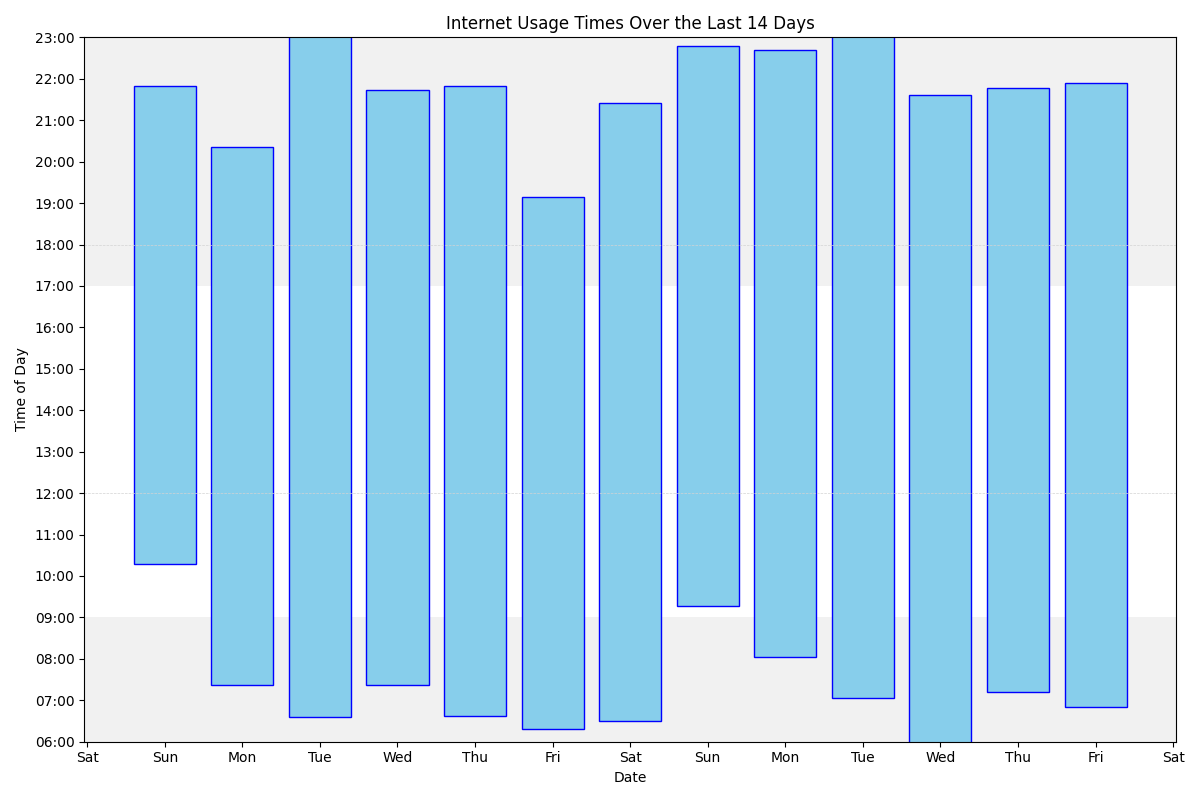
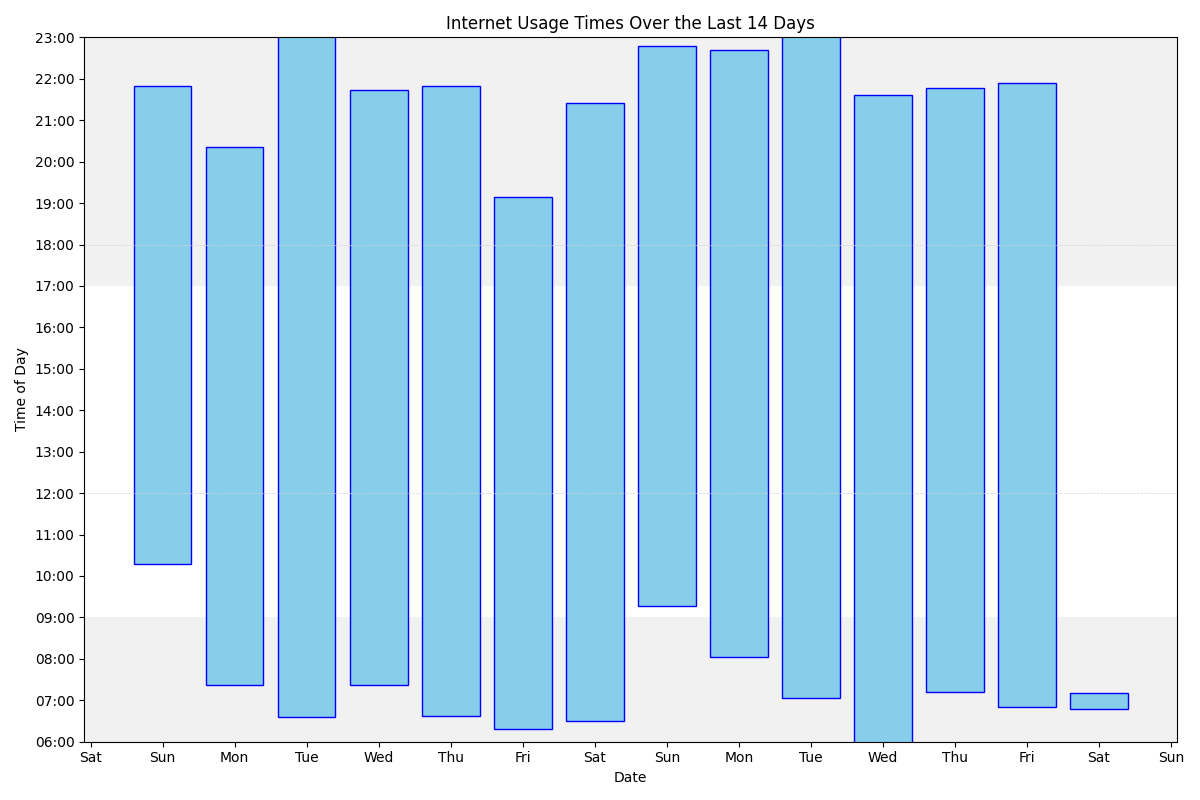
Update

diff --git a/index.md b/index.md
@@ -71,25 +71,25 @@ With number of accesses/minutes in parentheses
 <ol><li>www.google.com (3062)</li>
 <li>mail.google.com (2629)</li>
 <li>outlook.office.com (2583)</li>
-<li>docs.google.com (1986)</li>
+<li>docs.google.com (1991)</li>
 <li>www.reddit.com (1580)</li>
-<li>outlook.office365.com (1576)</li>
-<li>bsky.app (1506)</li>
-<li>www.facebook.com (1403)</li>
-<li>duckduckgo.com (1068)</li>
-<li>chatgpt.com (752)</li>
+<li>outlook.office365.com (1577)</li>
+<li>bsky.app (1509)</li>
+<li>www.facebook.com (1404)</li>
+<li>duckduckgo.com (1073)</li>
+<li>chatgpt.com (753)</li>
 <li>www.amazon.co.uk (717)</li>
 <li>www.theguardian.com (685)</li>
 <li>calendar.google.com (506)</li>
-<li>www.linkedin.com (477)</li>
+<li>www.linkedin.com (478)</li>
 <li>moodle.royalholloway.ac.uk (476)</li>
 <li>rhul-my.sharepoint.com (473)</li>
 <li>github.com (416)</li>
 <li>login.microsoftonline.com (409)</li>
 <li>tvtropes.org (398)</li>
 <li>gmail.com (383)</li>
-<li>web.whatsapp.com (326)</li>
-<li>chat.openai.com (289)</li>
+<li>web.whatsapp.com (327)</li>
+<li>chat.openai.com (290)</li>
 <li>drive.google.com (287)</li>
 <li>feedly.com (283)</li>
 <li>fritz.box (277)</li>
@@ -97,14 +97,62 @@ With number of accesses/minutes in parentheses
 <li>whitewaterwriters.com (225)</li>
 <li>www.coursera.org (208)</li>
 <li>rhul.sharepoint.com (203)</li>
-<li><a href="https://joereddington.com/todo.txt/">Joe’s Todo List</a> (200)</li>
+<li><a href="https://joereddington.com/todo.txt/">Joe’s Todo List</a> (201)</li>
 
 
 </ol><H2> Sites and times</H2>
 
 <ul></ul>
 
+<H3>Saturday, 31/05/25</H3>
+
+<br>
+
+<ul><li> 07:11 chatgpt.com</li>
+<li> 07:11 chat.openai.com</li>
+<li> 07:10 www.facebook.com</li>
+<li> 07:10 jenniestollarslt.co.uk</li>
+<li> 07:09 www.sfedc.com</li>
+<li> 07:09 www.bedslutonchildrenshealth.nhs.uk</li>
+<li> 07:09 duckduckgo.com</li>
+<li> 07:08 www.companydirectorcheck.com</li>
+<li> 07:08 duckduckgo.com</li>
+<li> 07:08 www.scoot.co.uk</li>
+<li> 07:07 duckduckgo.com</li>
+<li> 07:07 www.psychologytoday.com</li>
+<li> 07:07 flitwick.cylex-uk.co.uk</li>
+<li> 07:07 duckduckgo.com</li>
+<li> 07:06 www.yell.com</li>
+<li> 07:06 web.whatsapp.com</li>
+<li> 07:06 www.yell.com</li>
+<li class='same'> 07:05 www.yell.com</li>
+<li> 07:05 <a href="https://joereddington.com/todo.txt/">Joe’s Todo List</a></li>
+<li> 07:01 docs.google.com</li>
+<li class='same'> 07:00 docs.google.com</li>
+<li class='same'> 06:59 docs.google.com</li>
+<li class='same'> 06:58 docs.google.com</li>
+<li> 06:56 bsky.app</li>
+<li class='same'> 06:55 bsky.app</li>
+<li class='same'> 06:54 bsky.app</li>
+<li> 06:54 outlook.office365.com</li>
+<li> 06:53 www.linkedin.com</li>
+<li> 06:51 discord.com</li>
+<li class='same'> 06:49 discord.com</li>
+<li class='same'> 06:48 discord.com</li>
+<li> 06:48 www.cl.cam.ac.uk</li>
+<li> 06:47 duckduckgo.com</li>
+</ul>
+
+<br>
+
+<ul><li> 01:03 docs.google.com</li>
+</ul>
+
 <H3>Friday, 30/05/25</H3>
+
+<br>
+
+<ul></ul>
 
 <br>
 
